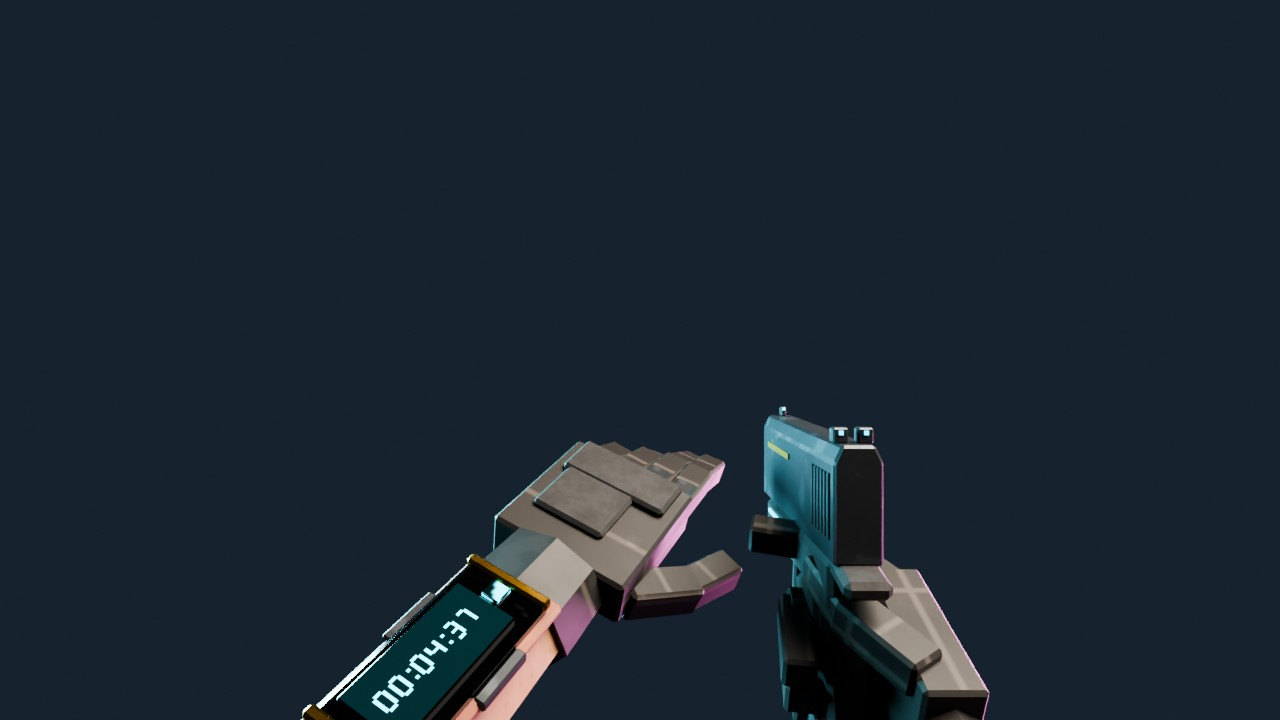
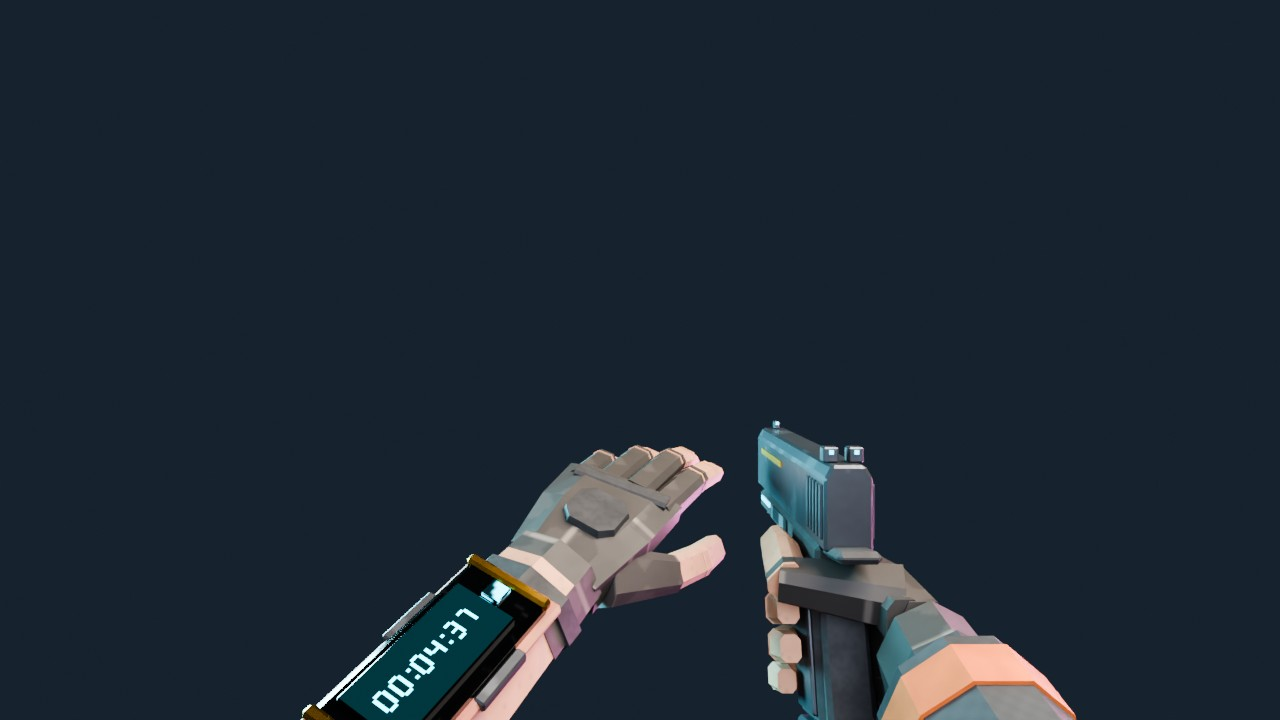
Devlog: SPINE/pistol entry updated with the v2 grip
Claude-Session: https://claude.ai/code/session_018cux4g4ChJZpWiZjkKQSZc

Changed region(s): [[0.375, 0.55, 0.8438, 1.0], [0.3438, 0.9778, 0.4062, 1.0]]

diff --git a/entries/2026-10-16_spine-and-pistol/note.md b/entries/2026-10-16_spine-and-pistol/note.md
@@ -3,6 +3,7 @@
 - First-person viewmodel: left forearm with the SPINE implant (the wrist timer that is your life and your wallet), right hand gripping the starter pistol.
 - The SPINE screen is a separate material slot: the game will draw the live countdown there. The digits in these renders are baked placeholders.
 - Pistol is split for animation: slide, magazine, trigger; sockets for muzzle flash and shell ejection.
-- Budget: arms 1420 + 760 tris, pistol 1520 tris. One 1024 hero atlas.
-- Honest status: blocky armoured glove, fits the low-poly style; the hands are the weakest part and will get another pass after we see them in-engine.
+- Version 1 of the grip was a robot claw: fingers went through the trigger guard, the thumb stuck out like a peg. The developer called it crooked, and he was right.
+- Version 2: hands rebuilt from scratch with 3-segment fingers and fingerless gloves; the grip is solved, not eyeballed. Fingers wrap the grip cross-section, the index finger is solved onto the trigger, the thumb lies along the frame. The pistol's proportions were fixed so a real hand fits.
+- Budget: arms 1504 + 844 tris, pistol 1476 tris, one 1024 hero atlas, 17-bone rig per arm.
 - Made by Claude (AI) from scripts in Blender; renders are Blender Cycles, not in-engine yet.
